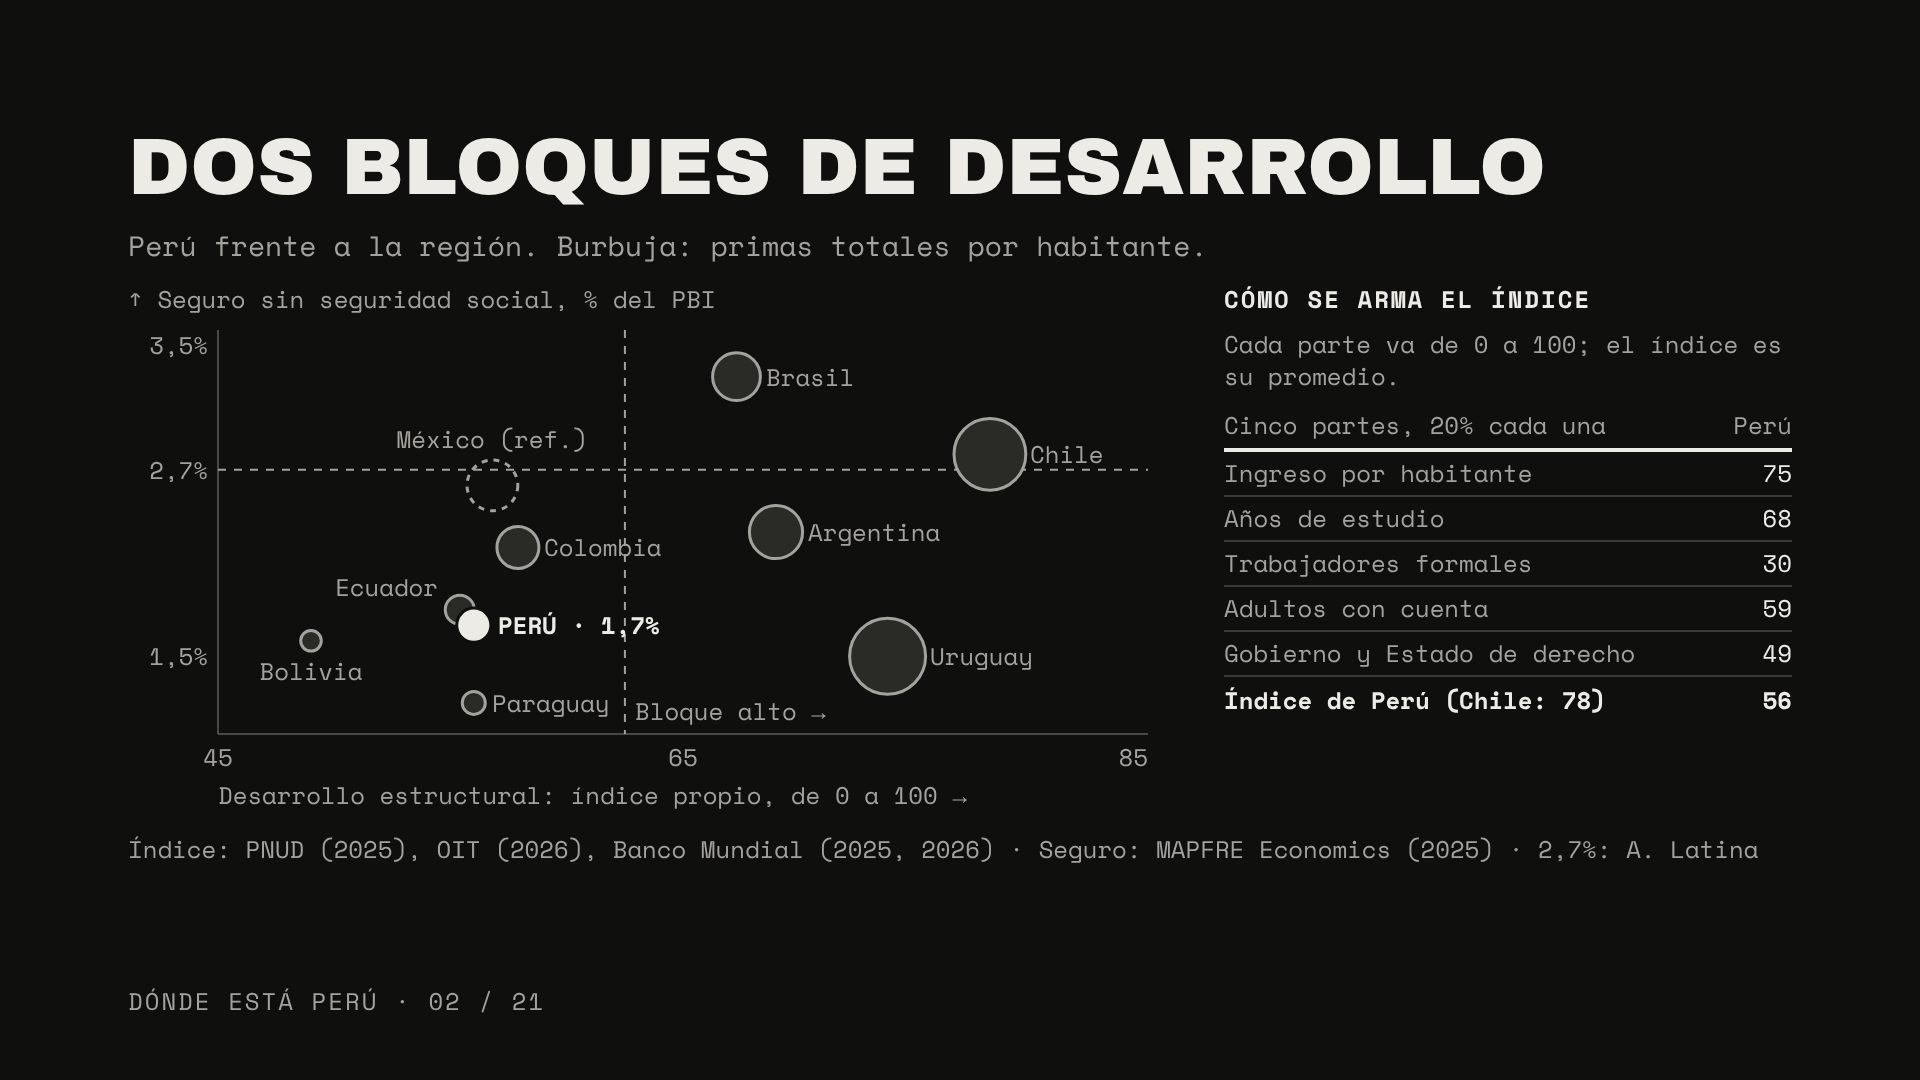
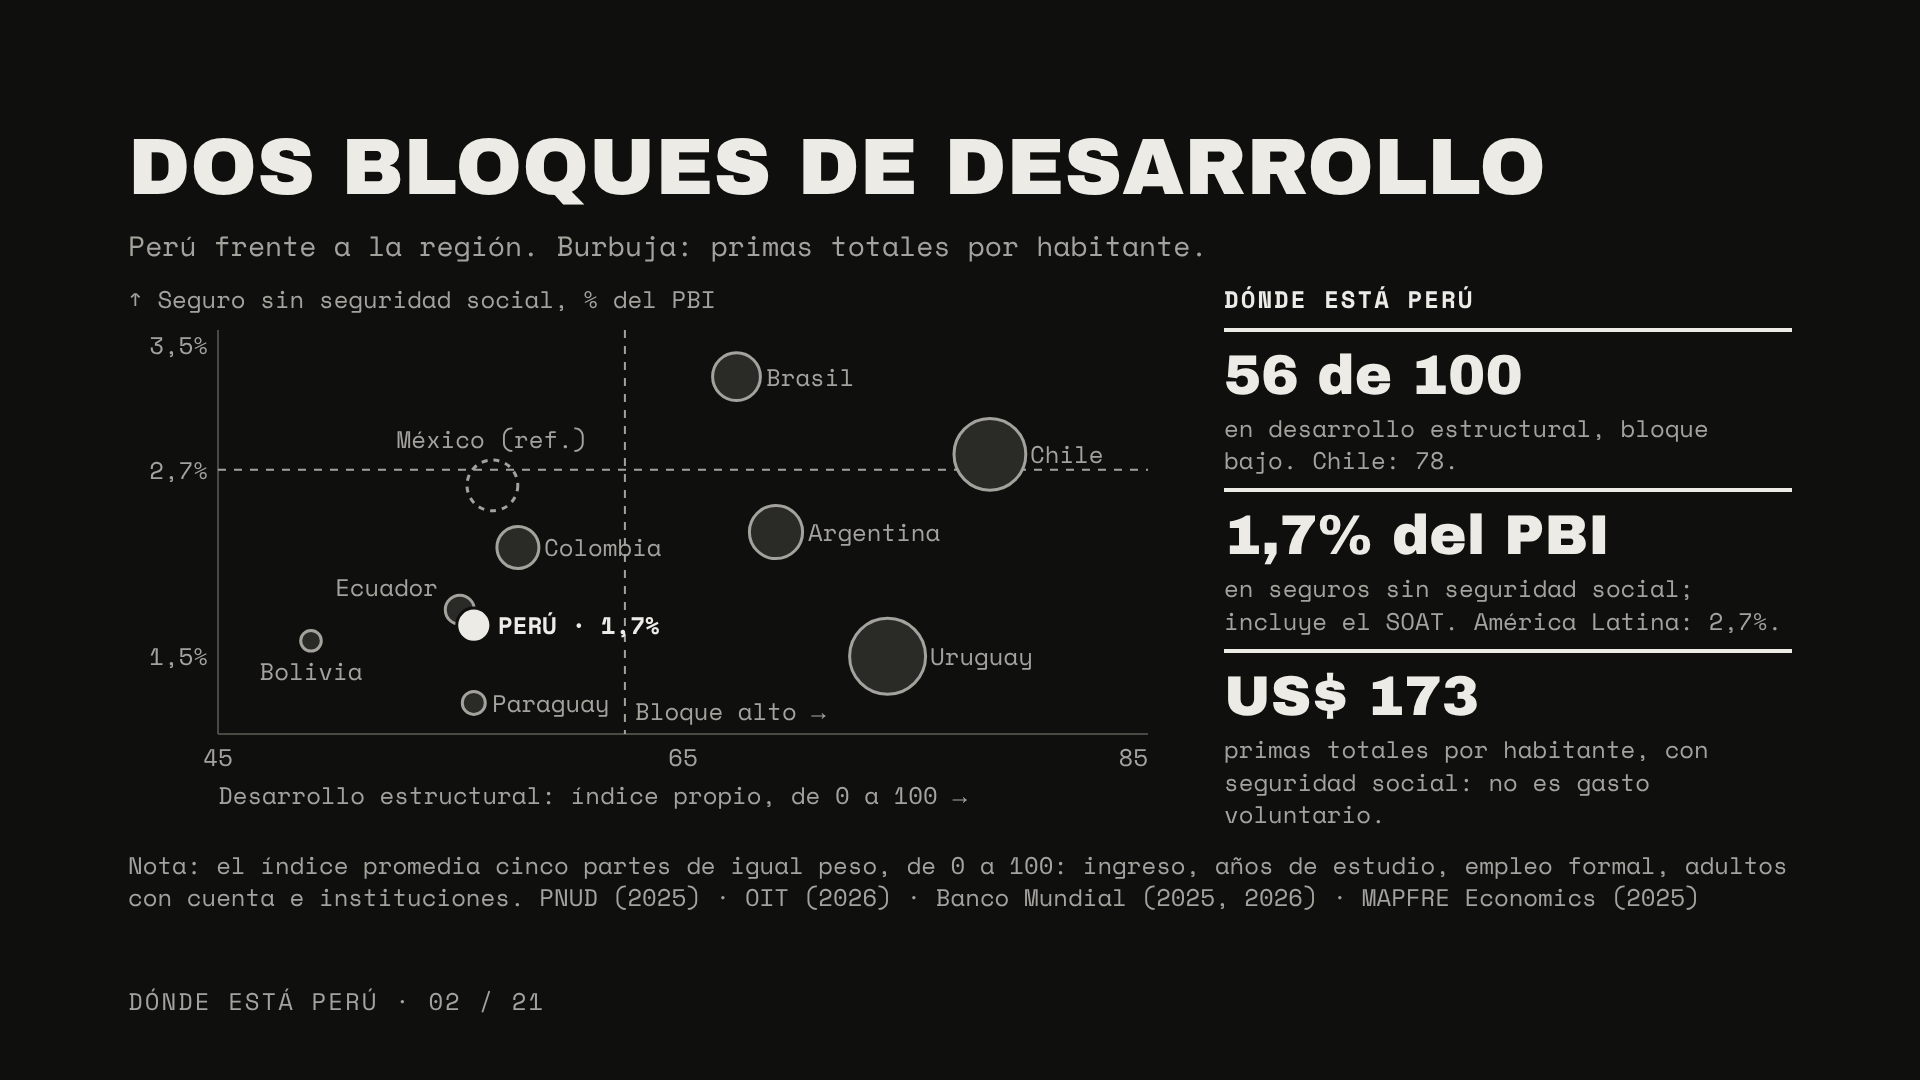
Lámina 2: vuelve el panel Dónde está Perú y la composición del índice pasa a nota
Claude-Session: https://claude.ai/code/session_0172Gzwbb2YLHGW14wEzAdeb

Changed region(s): [[0.0625, 0.2444, 0.9375, 0.8556], [0.9062, 0.6417, 0.9375, 0.6722]]

diff --git a/reports/presentacion-sudamerica/monocromo/project/slides/contexto-estructural.html b/reports/presentacion-sudamerica/monocromo/project/slides/contexto-estructural.html
@@ -40,20 +40,13 @@
 <p class="lab" style="left:802px;top:357px;width:130px">Uruguay</p>
 </div>
 <div style="width:568px;display:flex;flex-direction:column;gap:12px">
-<p class="k">Cómo se arma el índice</p>
-<p class="dim">Cada parte va de 0 a 100; el índice es su promedio.</p>
-<table class="tbl" style="border-collapse:collapse">
-<tr><th style="text-align:left;color:#A3A29C;font-weight:400;border-bottom:4px solid #ECEBE6;padding:6px 0">Cinco partes, 20% cada una</th><th style="width:90px;text-align:right;color:#A3A29C;font-weight:400;border-bottom:4px solid #ECEBE6;padding:6px 0">Perú</th></tr>
-<tr><td style="border-bottom:2px solid #3A3A36;padding:6px 0;color:#A3A29C">Ingreso por habitante</td><td style="border-bottom:2px solid #3A3A36;padding:6px 0;text-align:right">75</td></tr>
-<tr><td style="border-bottom:2px solid #3A3A36;padding:6px 0;color:#A3A29C">Años de estudio</td><td style="border-bottom:2px solid #3A3A36;padding:6px 0;text-align:right">68</td></tr>
-<tr><td style="border-bottom:2px solid #3A3A36;padding:6px 0;color:#A3A29C">Trabajadores formales</td><td style="border-bottom:2px solid #3A3A36;padding:6px 0;text-align:right">30</td></tr>
-<tr><td style="border-bottom:2px solid #3A3A36;padding:6px 0;color:#A3A29C">Adultos con cuenta</td><td style="border-bottom:2px solid #3A3A36;padding:6px 0;text-align:right">59</td></tr>
-<tr><td style="border-bottom:2px solid #3A3A36;padding:6px 0;color:#A3A29C">Gobierno y Estado de derecho</td><td style="border-bottom:2px solid #3A3A36;padding:6px 0;text-align:right">49</td></tr>
-<tr><td style="padding:8px 0;font-weight:700">Índice de Perú (Chile: 78)</td><td style="padding:8px 0;text-align:right;font-weight:700">56</td></tr>
-</table>
+<p class="k">Dónde está Perú</p>
+<div class="stat"><p class="mid">56 de 100</p><p class="dim">en desarrollo estructural, bloque bajo. Chile: 78.</p></div>
+<div class="stat"><p class="mid">1,7% del PBI</p><p class="dim">en seguros sin seguridad social; incluye el SOAT. América Latina: 2,7%.</p></div>
+<div class="stat"><p class="mid">US$ 173</p><p class="dim">primas totales por habitante, con seguridad social: no es gasto voluntario.</p></div>
 </div>
 </div>
-<p class="src">Índice: PNUD (2025), OIT (2026), Banco Mundial (2025, 2026) · Seguro: MAPFRE Economics (2025) · 2,7%: A. Latina</p>
+<p class="src">Nota: el índice promedia cinco partes de igual peso, de 0 a 100: ingreso, años de estudio, empleo formal, adultos con cuenta e instituciones. PNUD (2025) · OIT (2026) · Banco Mundial (2025, 2026) · MAPFRE Economics (2025)</p>
 <p class="foot">Dónde está Perú · 02 / 21</p>
-<aside>Qué decir: para el eje horizontal armamos un índice propio de desarrollo estructural, de 0 a 100, con cinco partes del mismo peso. Ingreso: ingreso nacional por habitante en dólares PPA de 2021, con la escala logarítmica del IDH (100 a 75.000 dólares) (PNUD, 2025, datos de 2023). Educación: años promedio de escolaridad de los adultos sobre 15 años, el máximo del IDH (PNUD, 2025). Empleo formal: 100 menos la tasa de empleo informal (OIT, 2026, datos de 2025). Inclusión financiera: adultos con una cuenta en un banco, una financiera o una billetera (Banco Mundial, 2025, datos de 2024). Instituciones: promedio de efectividad del gobierno y Estado de derecho, en escala de 0 a 100 (Banco Mundial, 2026, Worldwide Governance Indicators, datos de 2025). La tabla de la derecha explica cómo se arma el índice y cuánto saca Perú en cada parte: ingreso 75, años de estudio 68, trabajadores formales 30, adultos con cuenta 59 y gobierno y Estado de derecho 49; en total, 56. Chile, el más alto, saca 78. Lo que más lo baja es la informalidad. El gráfico muestra dos bloques separados por un salto de casi 10 puntos: abajo, Bolivia (49), Ecuador (55), Perú y Paraguay (56), México (57) y Colombia (58); arriba, Brasil (67), Argentina (69), Uruguay (74) y Chile (78); Turquía (70) no aparece porque MAPFRE no publica su penetración sin seguridad social; su penetración total es 2,8% del PBI (Allianz Research, citado por Allianz Türkiye, 2025). Dentro del bloque bajo, Perú está a la par de México y Colombia en desarrollo, pero compra menos seguro (1,7% del PBI frente a 2,6% y 2,2%). Uruguay sigue siendo la excepción del bloque alto, con 1,5%. Ojo: es un índice nuestro; los pesos iguales y los cinco componentes son una decisión que se puede discutir, y los datos son de años distintos (2023 a 2025). US$ 173 de primas totales por habitante es un promedio sobre toda la población, incluidas las primas de seguridad social; solo 10,2% de los adultos paga con regularidad a una aseguradora (Banco Mundial, 2025). Además, el mercado peruano casi no crece: en el primer semestre de 2026 las primas subieron 1,1% y las ganancias bajaron en la mitad de las compañías, según datos de la SBS (Gestión, 2026a). México aparece con línea punteada, solo como referencia. Puente: el desarrollo es una mirada; la segunda es cuánto usa la gente los pagos digitales.</aside>
+<aside>Qué decir: para el eje horizontal armamos un índice propio de desarrollo estructural, de 0 a 100, con cinco partes del mismo peso. Ingreso: ingreso nacional por habitante en dólares PPA de 2021, con la escala logarítmica del IDH (100 a 75.000 dólares) (PNUD, 2025, datos de 2023). Educación: años promedio de escolaridad de los adultos sobre 15 años, el máximo del IDH (PNUD, 2025). Empleo formal: 100 menos la tasa de empleo informal (OIT, 2026, datos de 2025). Inclusión financiera: adultos con una cuenta en un banco, una financiera o una billetera (Banco Mundial, 2025, datos de 2024). Instituciones: promedio de efectividad del gobierno y Estado de derecho, en escala de 0 a 100 (Banco Mundial, 2026, Worldwide Governance Indicators, datos de 2025). La nota al pie resume cómo se arma el índice. Perú saca, por parte: ingreso 75, años de estudio 68, trabajadores formales 30, adultos con cuenta 59 y gobierno y Estado de derecho 49; en total, 56. Chile, el más alto, saca 78. Lo que más lo baja es la informalidad. El gráfico muestra dos bloques separados por un salto de casi 10 puntos: abajo, Bolivia (49), Ecuador (55), Perú y Paraguay (56), México (57) y Colombia (58); arriba, Brasil (67), Argentina (69), Uruguay (74) y Chile (78); Turquía (70) no aparece porque MAPFRE no publica su penetración sin seguridad social; su penetración total es 2,8% del PBI (Allianz Research, citado por Allianz Türkiye, 2025). Dentro del bloque bajo, Perú está a la par de México y Colombia en desarrollo, pero compra menos seguro (1,7% del PBI frente a 2,6% y 2,2%). Uruguay sigue siendo la excepción del bloque alto, con 1,5%. Ojo: es un índice nuestro; los pesos iguales y los cinco componentes son una decisión que se puede discutir, y los datos son de años distintos (2023 a 2025). A la derecha, tres datos de Perú. 56 de 100 en el índice. 1,7% del PBI en seguros sin las primas de seguridad social, que incluye el SOAT, obligatorio; con ellas sería 2,0% (MAPFRE Economics, 2025). Y US$ 173 de primas totales por habitante: todas las primas del país, incluidas las ligadas a la seguridad social (pensiones, salud y riesgos laborales), divididas entre toda la población, incluidos los niños y quienes no tienen seguro; no es gasto voluntario. Sin las primas de seguridad social serían unos US$ 147, que todavía incluyen el SOAT (cálculo nuestro: 173 × 1,7 / 2,0); solo 10,2% de los adultos paga con regularidad a una aseguradora (Banco Mundial, 2025). Además, el mercado peruano casi no crece: en el primer semestre de 2026 las primas subieron 1,1% y las ganancias bajaron en la mitad de las compañías, según datos de la SBS (Gestión, 2026a). México aparece con línea punteada, solo como referencia. Puente: el desarrollo es una mirada; la segunda es cuánto usa la gente los pagos digitales.</aside>
 </section>
